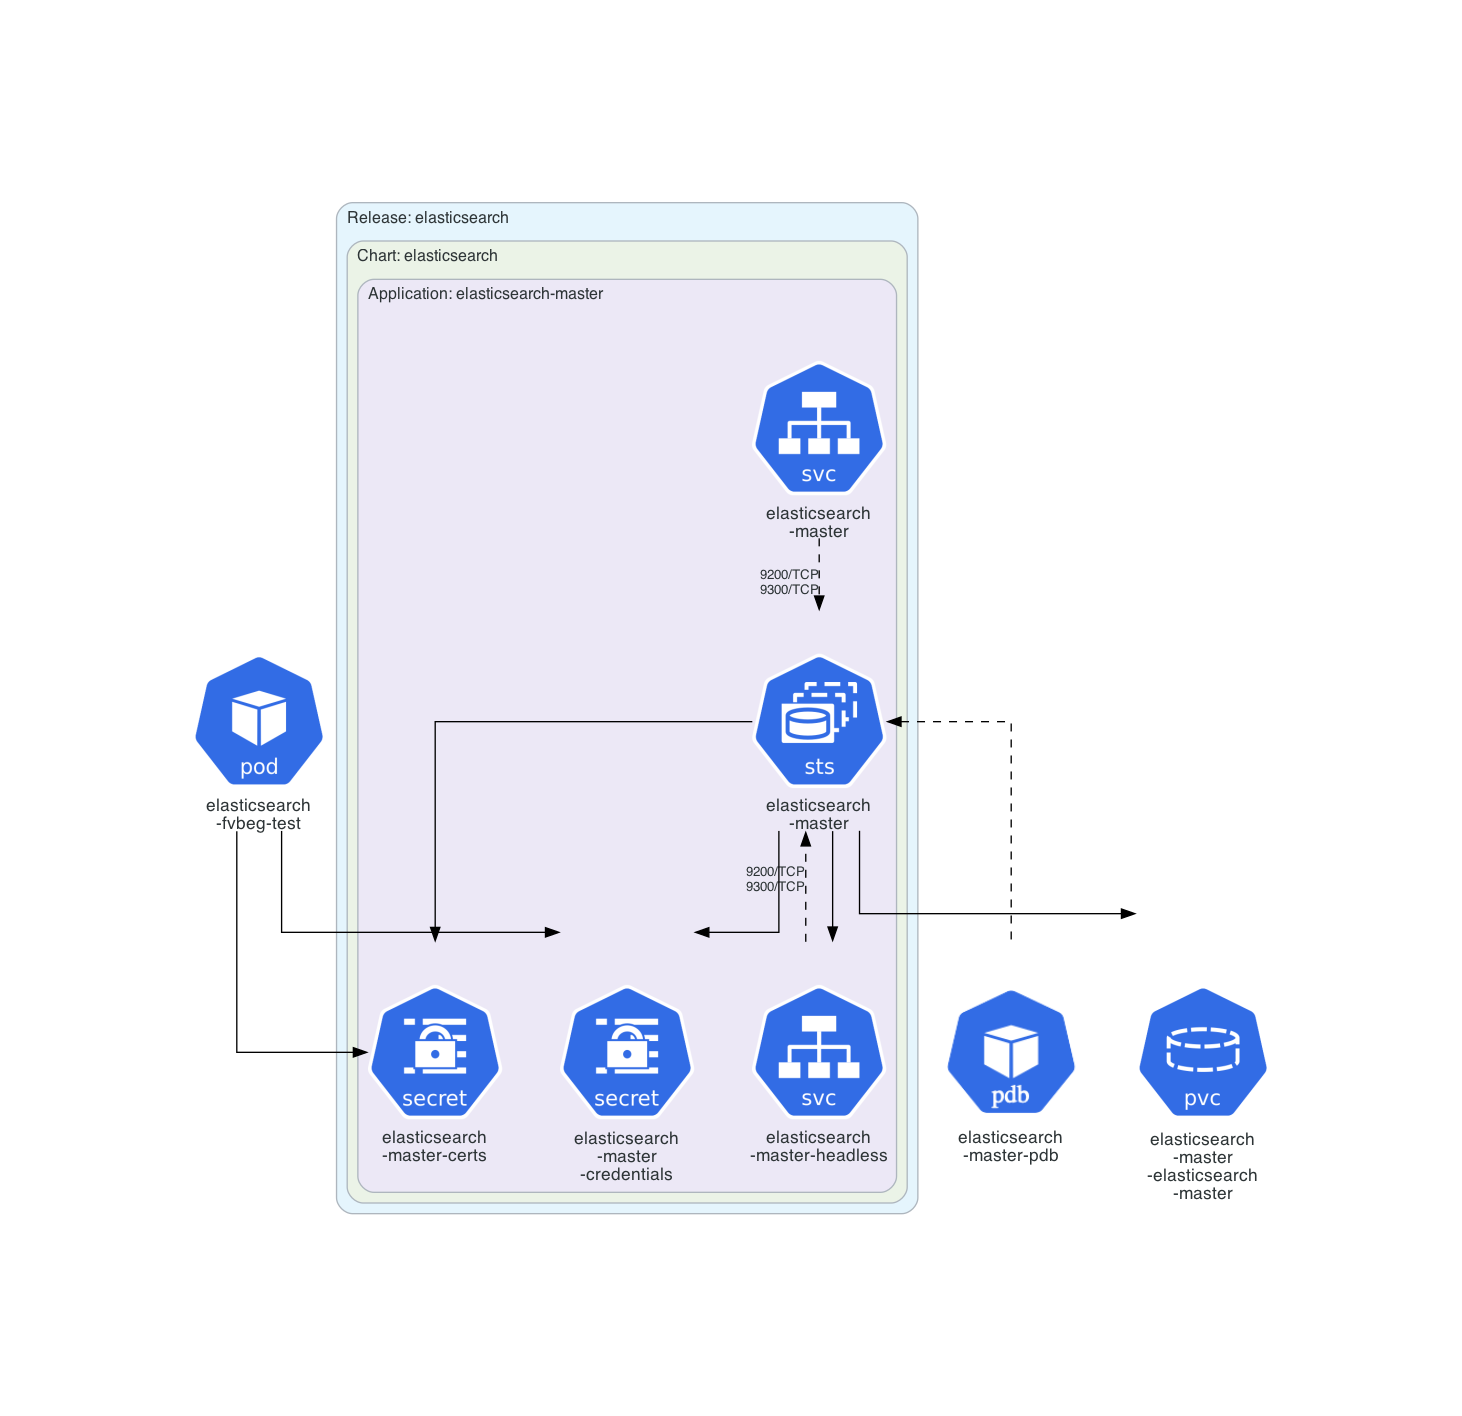
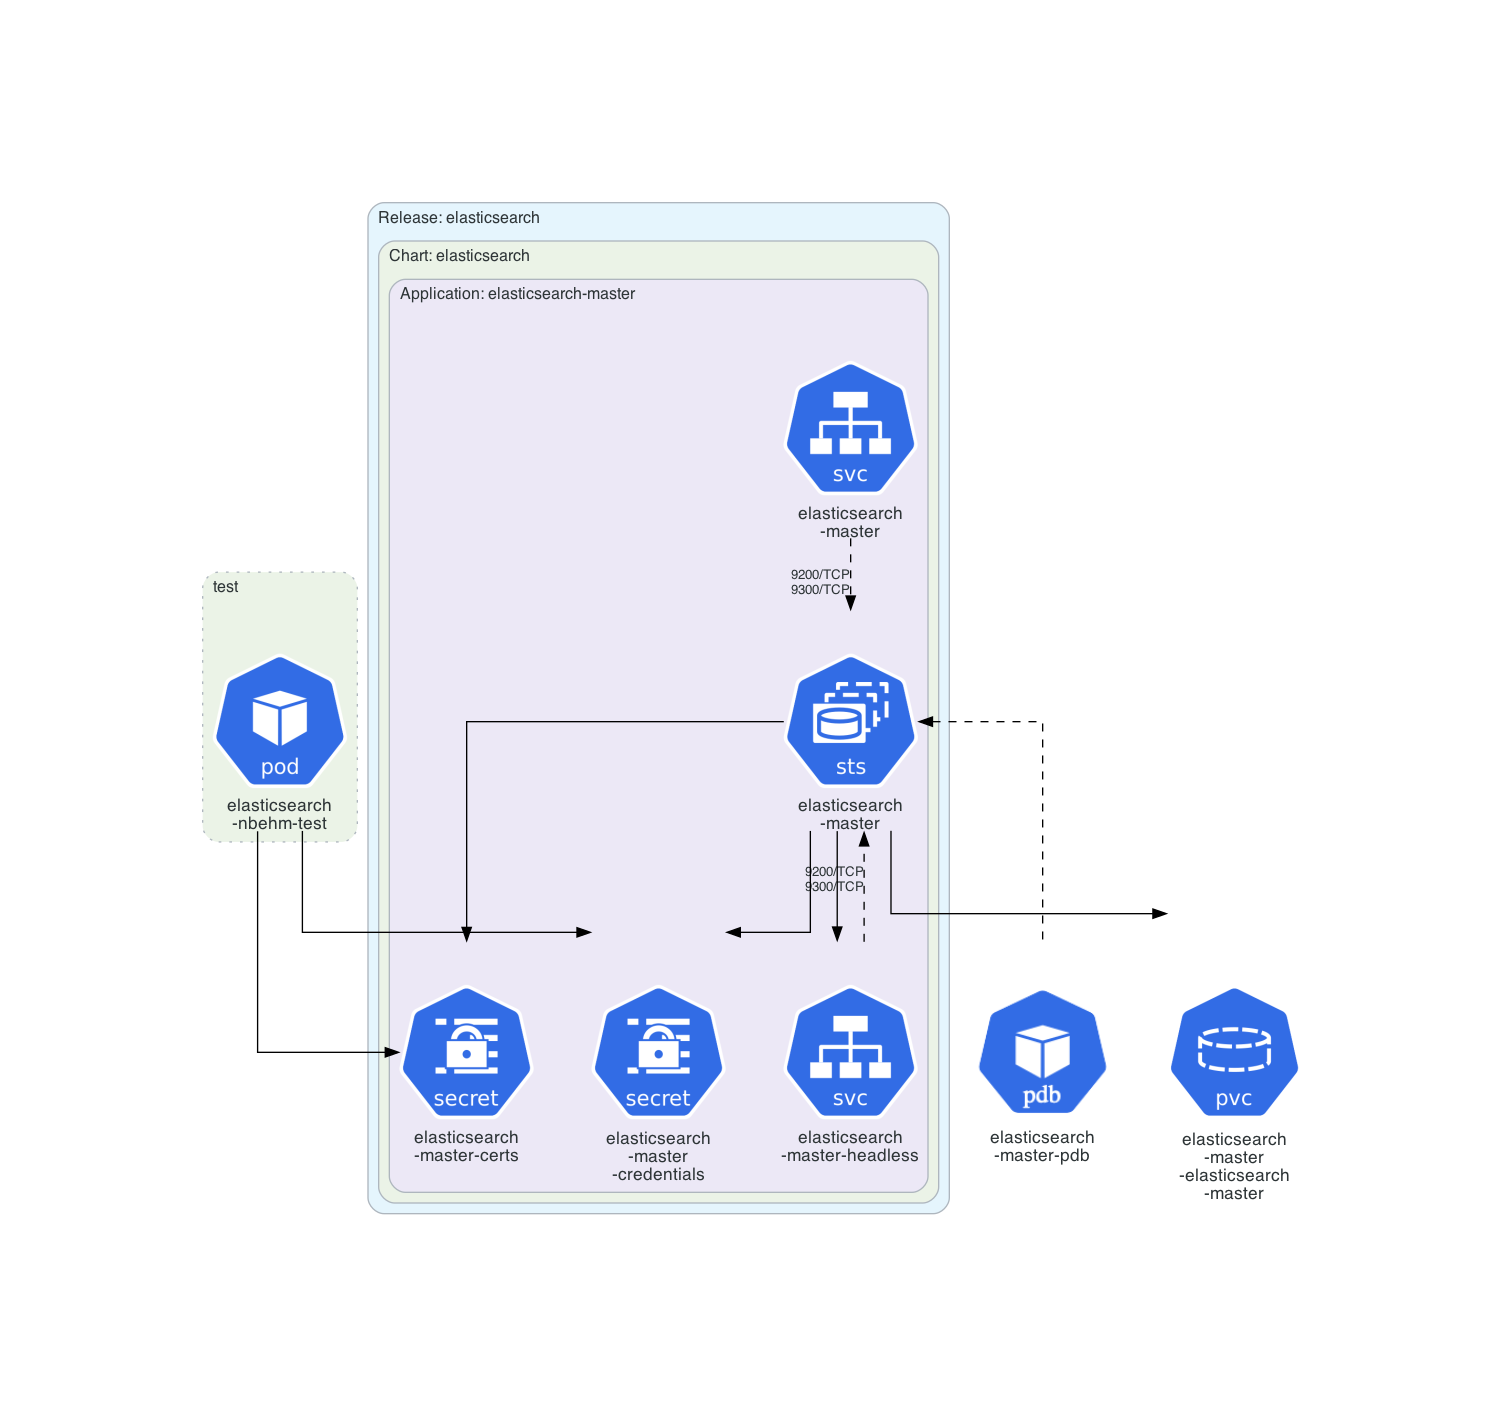
Add annotation-based clusters, especially for helm.sh/hook annotation

diff --git a/README.md b/README.md
@@ -232,7 +232,7 @@ docker run -v "$(pwd)":/work philippemerle/kubediagrams helm-diagrams oci://ghcr
 | `VerticalPodAutoscaler` | `autoscaling.k8s.io` | `v1` | ![VerticalPodAutoscaler](https://raw.githubusercontent.com/philippemerle/KubeDiagrams/refs/heads/main/bin/icons/vpa.png) |
 | `VolumeAttachment` | `storage.k8s.io` | `v1` | ![VolumeAttachment](https://raw.githubusercontent.com/kubernetes/community/refs/heads/master/icons/png/resources/labeled/vol-128.png) |
 
-**Note**: The mapping between these supported Kubernetes resources and architecture diagrams is defined into [bin/kube-diagrams.yml](https://github.com/philippemerle/KubeDiagrams/blob/main/bin/kube-diagrams.yaml#L61).
+**Note**: The mapping between these supported Kubernetes resources and architecture diagrams is defined into [bin/kube-diagrams.yml](https://github.com/philippemerle/KubeDiagrams/blob/main/bin/kube-diagrams.yaml#L85).
 
 **Note**: The mapping for any Kubernetes custom resources can be also defined into **KubeDiagrams** configuration files as illustrated in [examples/k0s/KubeDiagrams.yml](https://github.com/philippemerle/KubeDiagrams/blob/main/examples/k0s/KubeDiagrams.yml#L10), [examples/kube-prometheus-stack/KubeDiagrams.yml](https://github.com/philippemerle/KubeDiagrams/blob/main/examples/kube-prometheus-stack/KubeDiagrams.yaml#L3), and [examples/lws/KubeDiagrams.yml](https://github.com/philippemerle/KubeDiagrams/blob/main/examples/lws/KubeDiagrams.yml#L17).
 
@@ -261,19 +261,25 @@ Currently, there are 16 unsupported Kubernetes resource types:
 
 With **KubeDiagrams**, Kubernetes resources can be clustered within the architecture diagrams automatically. **KubeDiagrams** uses the `metadata.namespace` resource field as first clustering criteria. Then, the `metadata.labels` keys can be used to define subclusters. Following table lists the predefined mappings between label keys and cluster titles as defined in the [bin/kube-diagrams.yml](https://github.com/philippemerle/KubeDiagrams/blob/main/bin/kube-diagrams.yaml#L33) file (see the `clusters` list).
 
-| Label | Cluster Title |
+| Label Key | Cluster Title |
 | :--------: | :-------: |
-| `app.kubernetes.io/instance` | K8s Instance |
-| `release` | Release |
-| `helm.sh/chart` | Helm Chart |
-| `chart` | Chart |
-| `app.kubernetes.io/name` | K8s Application |
-| `app` | Application |
-| `app.kubernetes.io/component` | K8s Component |
-| `service` | Microservice |
-| `tier` | Tier |
+| `app.kubernetes.io/instance` | K8s Instance: `label value` |
+| `release` | Release: `label value` |
+| `helm.sh/chart` | Helm Chart: `label value` |
+| `chart` | Chart: `label value` |
+| `app.kubernetes.io/name` | K8s Application: `label value` |
+| `app` | Application: `label value` |
+| `app.kubernetes.io/component` | K8s Component: `label value` |
+| `service` | Microservice: `label value` |
+| `tier` | Tier: `label value` |
 
-New mappings can be easily defined in custom configuration files (see [examples/minikube/KubeDiagrams.yml](https://github.com/philippemerle/KubeDiagrams/blob/main/examples/minikube/KubeDiagrams.yml#L2), [examples/k0s/KubeDiagrams.yml](https://github.com/philippemerle/KubeDiagrams/blob/main/examples/k0s/KubeDiagrams.yml#L5), [examples/free5gc-k8s/KubeDiagrams.yml](https://github.com/philippemerle/KubeDiagrams/blob/main/examples/free5gc-k8s/KubeDiagrams.yml#L2),  [examples/open5gs-k8s/KubeDiagrams.yml](https://github.com/philippemerle/KubeDiagrams/blob/main/examples/open5gs-k8s/KubeDiagrams.yml#L2), [examples/towards5gs-helm/KubeDiagrams.yml](https://github.com/philippemerle/KubeDiagrams/blob/main/examples/towards5gs-helm/KubeDiagrams.yml#L2), and [examples/lws/KubeDiagrams.yml](https://github.com/philippemerle/KubeDiagrams/blob/main/examples/lws/KubeDiagrams.yml#L1))
+Resource clustering could be also annotation-based, i.e. based on `metadata.annotations` keys. Following table lists the predefined mappings between annotation keys and cluster titles as defined in the [bin/kube-diagrams.yml](https://github.com/philippemerle/KubeDiagrams/blob/main/bin/kube-diagrams.yaml#L79) file.
+
+| Annotation Key | Cluster Title |
+| :--------: | :-------: |
+| `helm.sh/hook` | `annotation value` |
+
+New label/annotation-based mappings can be easily defined in custom configuration files (see [examples/minikube/KubeDiagrams.yml](https://github.com/philippemerle/KubeDiagrams/blob/main/examples/minikube/KubeDiagrams.yml#L2), [examples/k0s/KubeDiagrams.yml](https://github.com/philippemerle/KubeDiagrams/blob/main/examples/k0s/KubeDiagrams.yml#L5), [examples/free5gc-k8s/KubeDiagrams.yml](https://github.com/philippemerle/KubeDiagrams/blob/main/examples/free5gc-k8s/KubeDiagrams.yml#L2),  [examples/open5gs-k8s/KubeDiagrams.yml](https://github.com/philippemerle/KubeDiagrams/blob/main/examples/open5gs-k8s/KubeDiagrams.yml#L2), [examples/towards5gs-helm/KubeDiagrams.yml](https://github.com/philippemerle/KubeDiagrams/blob/main/examples/towards5gs-helm/KubeDiagrams.yml#L2), and [examples/lws/KubeDiagrams.yml](https://github.com/philippemerle/KubeDiagrams/blob/main/examples/lws/KubeDiagrams.yml#L1))
  and provided to **KubeDiagrams** via the `--config` command-line option.
 
 ### Kubernetes resource relationships
